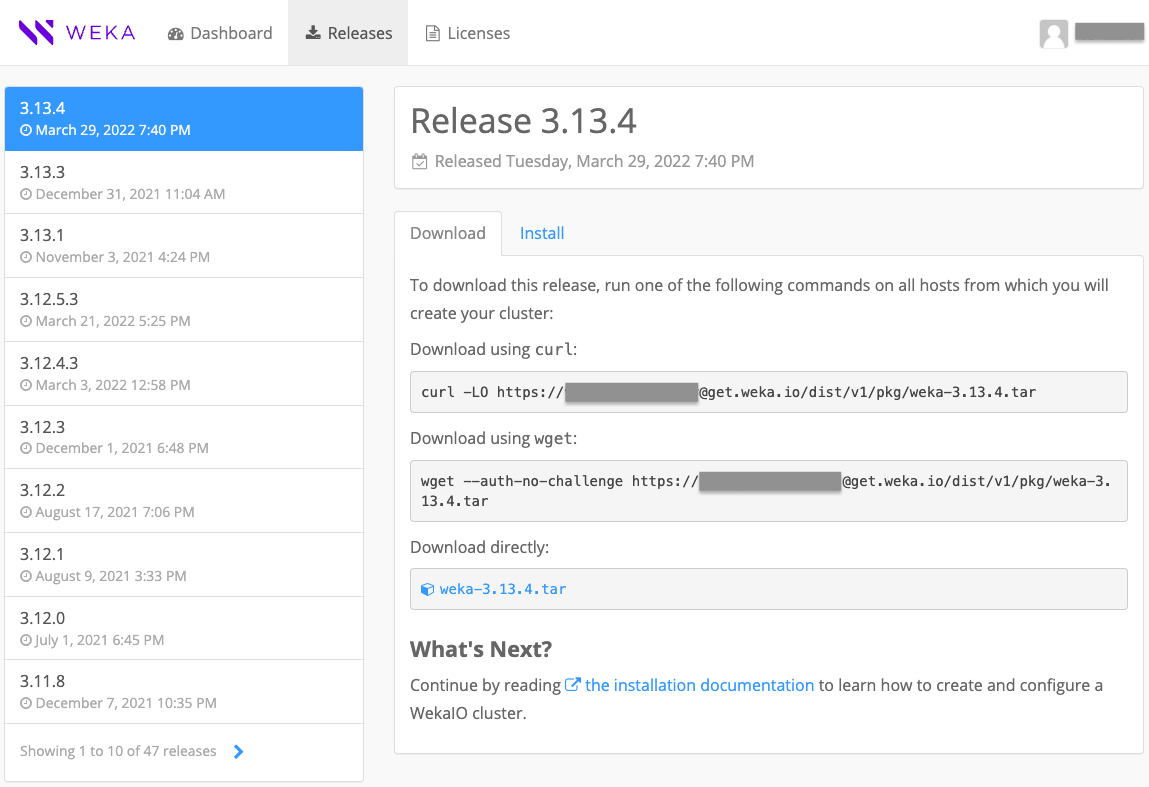
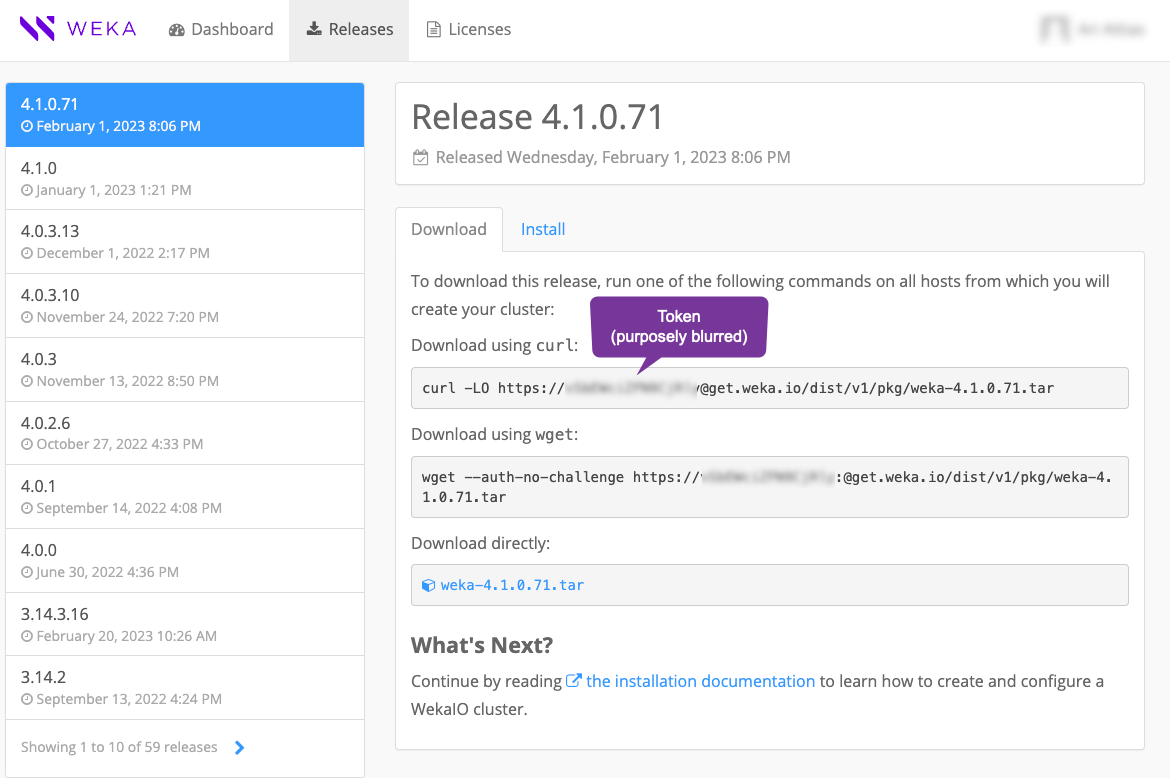
GITBOOK-127: Clarify how to get the token

diff --git a/getting-started-with-weka/quick-install-guide.md b/getting-started-with-weka/quick-install-guide.md
@@ -175,11 +175,11 @@ WekaIO v4.0.0 (CLI build 4.0.0)
         alerts: 1 active alert, use `weka alerts` to list it
 ```
 
-7\. Change the default admin password and ensure that no other alerts exist in the system.
+7\. Change the default admin password and ensure no other alerts exist.
 
 ## Quick installation for multiple containers architecture
 
-It is assumed that the servers are ready for the Weka software installation. In the following example, there are 8 servers. Each server has more than 20 cores, 6 NVME drives, and a single Mellanox NIC.
+It is assumed that the servers are ready for the Weka software installation. In the following example, there are 8 servers. Each server has over 20 cores, 6 NVME drives, and a single Mellanox NIC.
 
 To run the commands on all containers in parallel, we use `pdsh` as an example only.
 
@@ -188,8 +188,10 @@ To run the commands on all containers in parallel, we use `pdsh` as an example o
 1. Install Weka software on all servers:
 
 ```bash
-pdsh -R ssh -w "weka0-[0-1]" "curl https://[GET.WEKA.IO-TOKEN]@get.weka.io/dist/v1/install/4.0.0/4.0.0 | sudo sh"
+pdsh -R ssh -w "weka0-[0-1]" "curl https://[GET.WEKA.IO-TOKEN]@get.weka.io/dist/v1/install/4.1.0/4.1.0 | sudo sh"
 ```
+
+To get the download link with the token, see the [Obtain the Weka software installation package](../install/bare-metal/obtaining-the-weka-install-file.md) topic.
 
 ### Remove the default container
 
@@ -231,6 +233,7 @@ On each server, the resource generator generates three resource files in the `/t
 
 ```
 pdsh -R ssh -w "weka0-[0-7]" 'weka local setup container --resources-path /tmp/drives0.json'
+
 ```
 
 #### Create a cluster
@@ -243,6 +246,7 @@ pdsh -R ssh -w "weka0-[0-7]" 'weka local setup container --resources-path /tmp/d
 ssh weka0-1
 weka cluster create weka0-{0..7}
 weka cluster update --cluster-name=WekaProd
+
 ```
 
 #### Add a drive to the cluster
@@ -251,6 +255,7 @@ weka cluster update --cluster-name=WekaProd
 
 ```
 for i in {0..7} ; do weka cluster drive add $i /dev/nvme0n1 /dev/nvme1n1 /dev/nvme2n1 /dev/nvme3n1 /dev/nvme4n1 /dev/nvme5n1 ; done
+
 ```
 
 #### Create compute containers
@@ -259,6 +264,7 @@ for i in {0..7} ; do weka cluster drive add $i /dev/nvme0n1 /dev/nvme1n1 /dev/nv
 
 ```
 pdsh -R ssh -w "weka0-[0-7]" 'weka local setup container --resources-path /tmp/compute0.json --join-ips $(hostname -i)'
+
 ```
 
 #### Name the cluster and enable event notifications to the cloud
@@ -268,6 +274,7 @@ pdsh -R ssh -w "weka0-[0-7]" 'weka local setup container --resources-path /tmp/c
 ```
 weka cluster update --cluster-name=WekaProd
 weka cloud enable
+
 ```
 
 #### Set the license
@@ -277,6 +284,7 @@ weka cloud enable
 
 ```
 weka cluster license set LICENSE_TEXT_OBTAINED_FROM_GET_WEKA_IO
+
 ```
 
 #### Start the cluster IO service
@@ -285,6 +293,7 @@ weka cluster license set LICENSE_TEXT_OBTAINED_FROM_GET_WEKA_IO
 
 ```
 weka cluster start-io
+
 ```
 
 #### Create frontend containers
@@ -293,6 +302,7 @@ weka cluster start-io
 
 ```
  pdsh -R ssh -w "weka0-[0-7]" 'weka local setup container --resources-path /tmp/frontend0.json --join-ips  $(hostname -i)'
+
 ```
 
 ### Post configuration
@@ -314,7 +324,7 @@ weka status
 Output example for a **multiple container** architecture:
 
 ```bash
-WekaIO v4.1.0 (CLI build 4.1.0) TBD - replace the following with a successful output
+WekaIO v4.1.0 (CLI build 4.1.0)
 
        cluster: WekaProd (00569cef-5679-4e1d-afe5-7e82748887de)
         status: OK (8 backends UP, 5 drives UP)

diff --git a/install/bare-metal/obtaining-the-weka-install-file.md b/install/bare-metal/obtaining-the-weka-install-file.md
@@ -45,8 +45,9 @@ Download the Weka software installation package (tar) from the [get.weka.io](htt
 
 ![get.weka.io: Dashboard tab](../../.gitbook/assets/Get\_Weka\_dashboard.png)
 
-2\. Select the **Releases** tab.
+2. Select the **Releases** tab.
 
 ![get.weka.io: Releases tab](../../.gitbook/assets/Get\_Weka\_download\_tab.png)
 
-3\. Select the required release and follow the download instructions.
+3. Select the required release and follow the download instructions.\
+   (The token in the download link is purposely blurred.)
